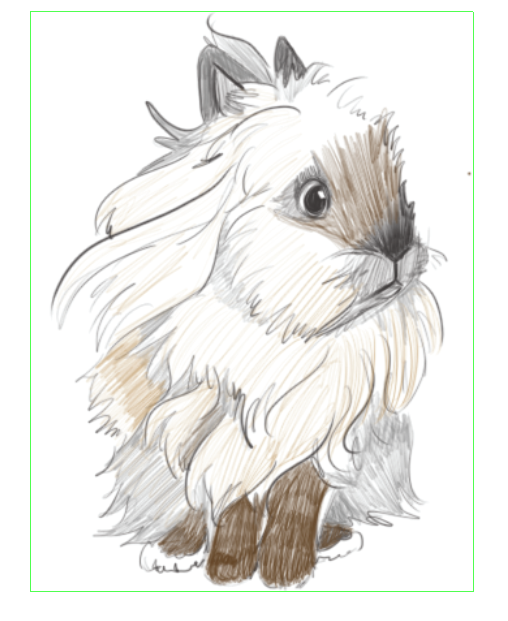
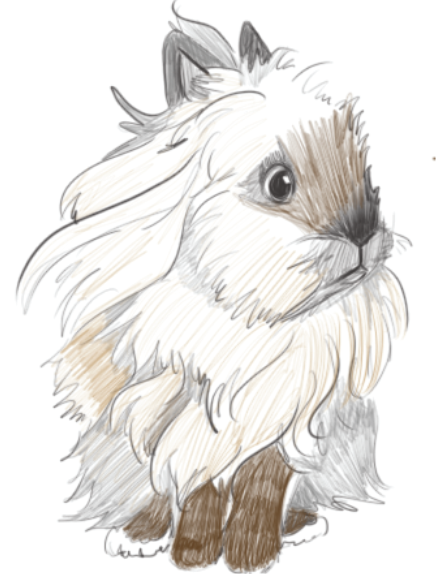
Add Aurora Dream Rabbitry to maker blog

diff --git a/site/src/content/portfolio/aurora-dream.md b/site/src/content/portfolio/aurora-dream.md
@@ -1,0 +1,60 @@
+---
+piece_type:
+    - work
+    - journal
+title: Aurora Dream Rabbitry Illustration
+description: An illustration of a lionhead rabbit to be used as a logo for the Aurora Dream Rabbitry.
+slug: /portfolio/aurora-dream
+collaborators: []
+class: ""
+date: 2019-10-09T08:00:21.225Z
+preview: /portfolio/aurora-dream/final.jpg
+thumbnail_width: 1
+thumbnail_height: 1
+cover: /portfolio/aurora-dream/cover.jpg
+og_preview: /portfolio/aurora-dream/final.jpg
+draft: false
+url: ""
+technologies:
+    - Adobe Illustrator
+tags:
+    - illustration
+categories:
+    - Freelance Design
+    - Client Work
+type: portfolioPiece
+---
+
+Rabbits are one of my favorite animals. So when [Aurora Dream Rabbitry](https://adrabbitry.weebly.com/) asked me to help them design business cards just in time for the [American Rabbit Breeder's Association Rabbit](https://arba.net/) Show, I was thrilled to draw some bun buns.
+
+If you've never heard of the ARBA annual rabbit show, I would recommend watching this video:
+
+[A link to a YouTube video about the American Rabbit Breeder's Association show of 17,000 rabbits.](https://www.youtube.com/embed/BAdzLbFMP4I)
+
+
+### Business Card Rough Drafts
+Aurora Dream Rabbitry is run by a pair of friends. My initial thought was to make stylish caricatures of them for their business cards.
+
+![The image is a business card design for "Aurora Dream Rabbitry." It features a simple line drawing of two individuals holding rabbits. The text includes the names "Corinne Foote & Rachel Trujillo" and provides contact information: an email address (AuroraDreamRabbits@gmail.com) and a website (ADRabbity.Weebly.com). The card has a clean layout with the business name prominently displayed in a decorative green font, creating a professional appearance for the rabbitry.](/portfolio/aurora-dream/businesscard.png)
+![The image shows three individuals standing together in a spacious indoor setting, likely at an event or fair. One person is holding a large white rabbit, which is resting on their arm. The other two individuals are positioned beside them, wearing casual clothing. The background features a structure with overhead lighting and several animal pens, indicating a livestock or pet exhibition environment. The overall scene captures a moment of interaction with the rabbit in a communal space.](/portfolio/aurora-dream/friends.jpg)
+![The image features two individuals holding rabbits in their arms. The individuals are depicted in a simple line drawing style, with long hair and casual clothing. The background is minimal, focusing on the subjects and their pets. The overall composition captures a moment of companionship between the individuals and the animals.](/portfolio/aurora-dream/friends_illustration.jpg)
+
+They weren't too into the idea of caricatures of themselves, and they pivoted from the idea of a business card design. What they really wanted, they said, was an illustration of a rabbit they could use for their logo.
+
+### Character Illustration
+So I went to work in making iterations of rabbit illustrations. They gave me a reference photo afterwards to use in future iterations.
+
+![The image features a collection of eight cartoon-style illustrations of fluffy animals, each labeled with letters A through H. The animals have round bodies and fluffy fur, resembling a mix of sheep and rabbits. - **A**: A fluffy animal with a serious expression and black ears. - **B**: A similar fluffy creature with a playful expression. - **C**: A round, fluffy animal with a closed-eyed smile. - **D**: A fluffy animal with a confident stance and upright ears. - **E**: A fluffy creature with rabbit ears and a curious expression. - **F**: A fluffy animal with a slightly grumpy look. - **G**: A fluffy creature with large eyes and a neutral expression. - **H**: A fluffy animal with a mix of features, looking inquisitive. The illustrations are outlined in black and lack color, emphasizing their shapes and expressions.](/portfolio/aurora-dream/8up.png)
+![The image features a fluffy rabbit with a mix of light brown and gray fur, giving it a soft, cloud-like appearance. Its ears are upright, and it has a small, rounded face with dark eyes. The rabbit is sitting on a green surface, with a hint of an orange ball visible in the background. The backdrop consists of a light green wall, adding a gentle contrast to the rabbit's fur. The overall scene captures the rabbit in a calm and adorable pose.](/portfolio/aurora-dream/original.jpg)
+![](/portfolio/aurora-dream/sketchdraft.png)
+![The image features a cartoon-style illustration of a fluffy rabbit. The rabbit has long, soft fur in shades of cream, brown, and gray, with distinctive markings on its face. Its ears are upright, and it has large, expressive eyes. The rabbit is depicted in a sitting position, showcasing its rounded body and fluffy tail. The overall design emphasizes the rabbit's adorable features and fluffy texture, set against a plain white background.](/portfolio/aurora-dream/final.jpg)
+![A photograph of a bottle with an illustration of a fluffy rabbit and the words "Aurora Dream Rabbitry" on the side.](/portfolio/aurora-dream/rabbit_bottle.jpg)
+
+
+
+## ARBA and Merch
+The final design is a Disney-fied version of the reference photo they gave me. It was made in time for the ARBA show, and was used for both rabbit designations and merch. If you like the design, consider [buying some stickers](https://www.redbubble.com/i/sticker/Lionhead-Rabbit-by-karinachowtime/67474065.JCQM3)!
+
+Our illustration gracing the cage of our star show bunny:
+![The image shows a fluffy rabbit inside a wire cage at a rabbit show. The rabbit has a light brown coat with a fluffy mane, characteristic of a Lionhead breed. A sign attached to the cage reads "Aurora Dream Rabbitry" and provides details about the rabbit named "Astra." The sign lists the breed as Lionhead, variety as Black Tort, age as Junior, sex as Doe, and includes an ear number. The cage contains a small food dish and a water container, with bedding visible on the bottom. The setting appears to be a rabbit show or sale event.](/portfolio/aurora-dream/arba.jpg)
+
